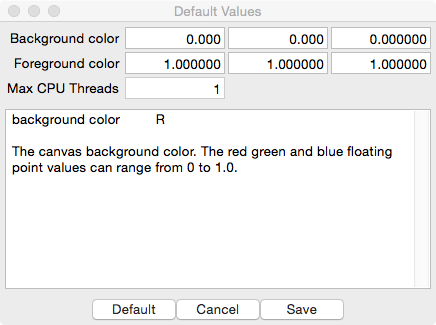
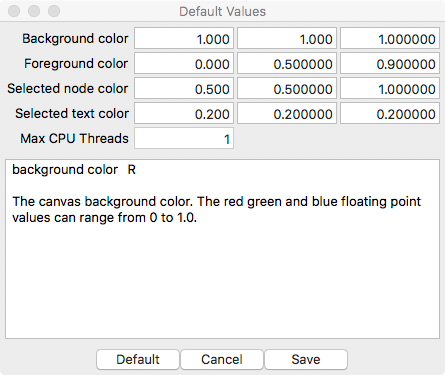
update

Changed region(s): [[0.0, 0.0, 1.0, 0.6154], [0.2087, 0.8923, 0.805, 1.0]]

diff --git a/install_mango.md b/install_mango.md
@@ -1,8 +1,8 @@
-## Installing Mango
+## Installation
 
 Mango is a stand-alone C++ application and installers can be downloaded for Windows, Mac, and Linux. **You DO NOT have to compile anything.** 
 
-In January 2014, Hui-Hsien Chou and [Jennifer Chang](https://github.com/j23414) started developing Mango, the graph exploration system, while at [Iowa State University](https://www.iastate.edu). Since August 2016, Mango has been licensed and trademarked as "Mango Graph Studio" for continued development to [Complex Computation, LLC](https://www.complexcomputation.com/en). A community version of Mango is freely available and a paid commercial version of Mango is in development.
+In January 2014, [Hui-Hsien Chou](http://www.complex.iastate.edu/staff/chou.html) and [Jennifer Chang](https://github.com/j23414) started developing Mango, the graph exploration system, while at [Iowa State University](https://www.iastate.edu). Since August 2016, Mango has been licensed and trademarked as "Mango Graph Studio" for continued development to [Complex Computation, LLC](https://www.complexcomputation.com/en). A community version of Mango will always be freely available.  A professional version of Mango Graph Studio is in development.
 
 ###Install Mango Graph Studio v1.24 and later
 
@@ -31,7 +31,7 @@ A full walk-through of Mango installation steps is posted to YouTube:
 
 ## First time running Mango Graph Studio 
 
-### Running Mango Graph Studio on Mac Versions
+### Running Mango Graph Studio on Mac Computers
 
 The security settings on Mac may require you to first right click on the application and then select run. It will give you a warning that Mango Graph Studio does not have a apple developer certificate. Click on **Open** anyway and the application will run. 
 
@@ -46,16 +46,42 @@ Mango Graph Studio is under active development so it is important to check for u
 3. You will need to be connected to the internet. If a new version of Mango is available, a message box will pop up:
 
   ![](imgs/updatecheck.png)
-4. Install a new version by repeating the steps of installation above. 
+4. Install a new version by repeating the steps of installation above.
+
+### The User Interface
+
+The user interface for Mango Graph Studio is designed to ease multi-network analysis. Each loaded network is listed in the **Data Pane** along with number of nodes and links. When you double click a network name, the network is displayed in the **Graph Canvas**. Each network is 3D interactive. Each tab can be dragged around to view multiple networks at the same time. 
+
+
+ ![](imgs/Interface.png)
+
+
+The **Editor** allows the user to edit and run the Graph Exploration Language (Gel) scripts. Gel scripts allows for documentation and reproducible multi-network analysis. Any textual results are displayed in the **Console**. The console displays any help or error messages. The user can also send in print statements. If the user clicks on a node in the Graph Canvas, the node ID is printed in the Console.
 
 ### Customizing the user interface
 
 **Font Size**
 
-You can increase the font size for the console and the editor using Ctrl++ on Windows and Linux or Cmd++ on Mac. Use Ctrl+= or Cmd+- to decrease font. 
+You can increase the font size for the **console** and the **editor** using Ctrl+= on Windows and Linux or Cmd+= on Mac. Use Ctrl+- or Cmd+- to decrease font. 
 
 Note that the code font will increase while the text in the data panel and the graph canvas will remain the same. This will not increase the font size of node or link labels.
 
 **Panel Layout**
 
 Click and drag headers of Editor and Console if you want to rearrange the panes on the screen.
+
+**Graph Canvas Settings**
+
+You can customize the visualization in the Graph Canvases by going to the menubar: 
+
+Window -> Change Settings
+
+![](imgs/Settings.png)
+
+**Background color** changes the RGB (Red, Green, Blue) values of the background. 
+
+**Foreground color** changes the text color of node or link labels. 
+
+When a user clicks on a node in the Graph Canvas, the node is selected and changes to the **Selected node color** while its label changes to the **Selected text color**.
+
+**Max CPU Threads** is by default 1 thread. 
